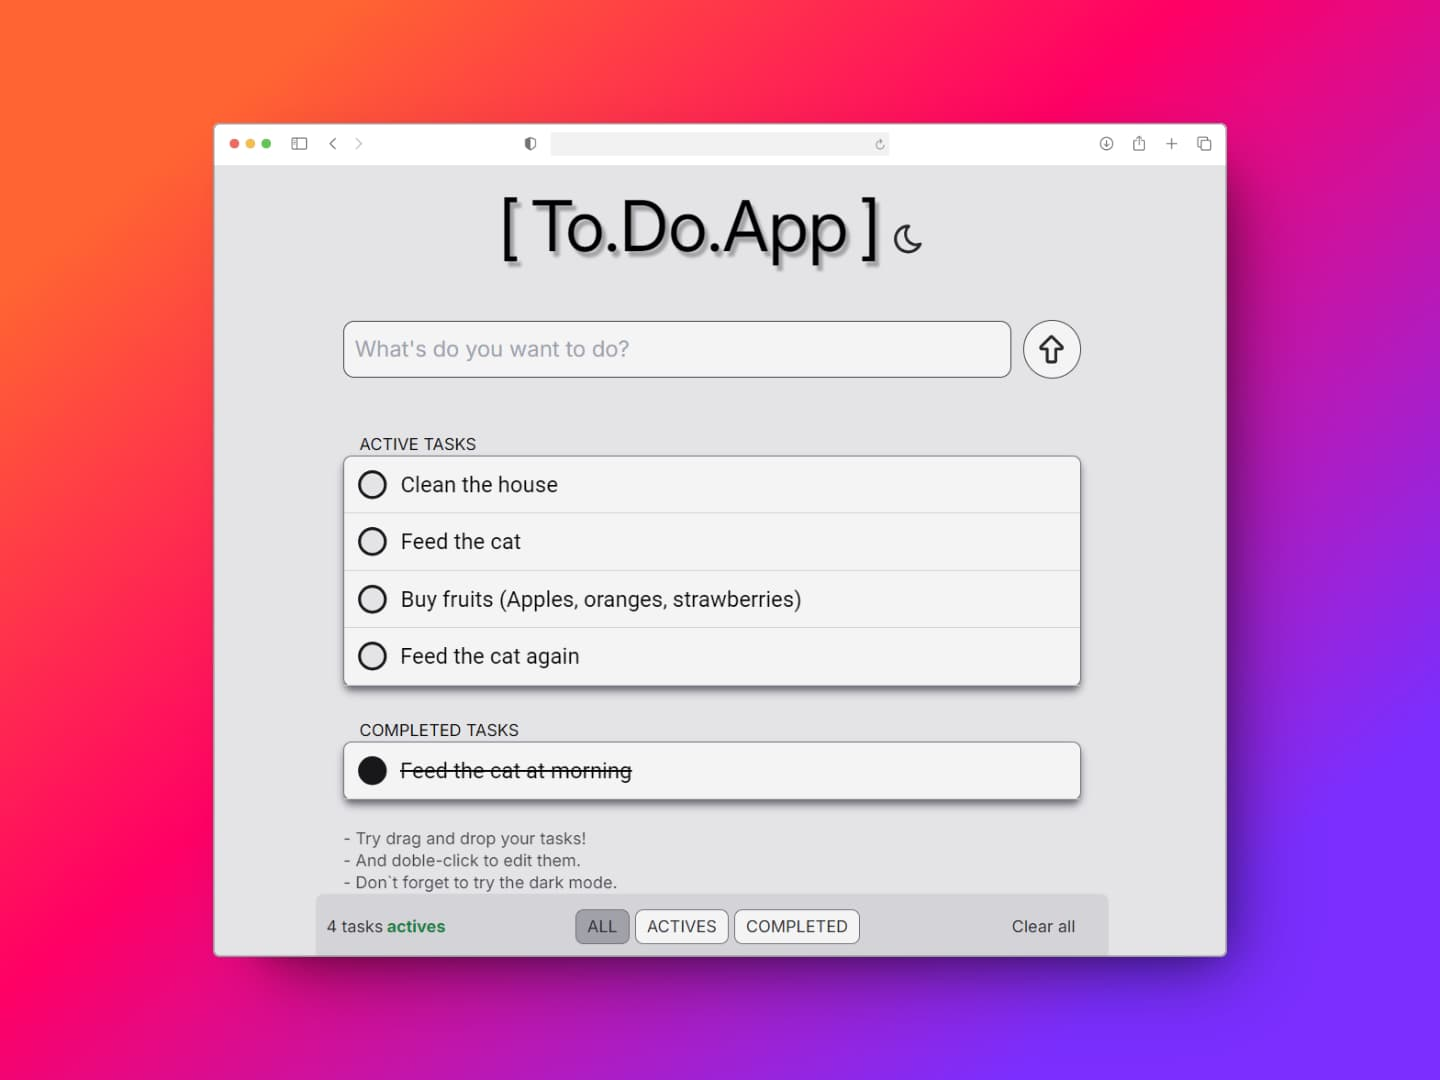
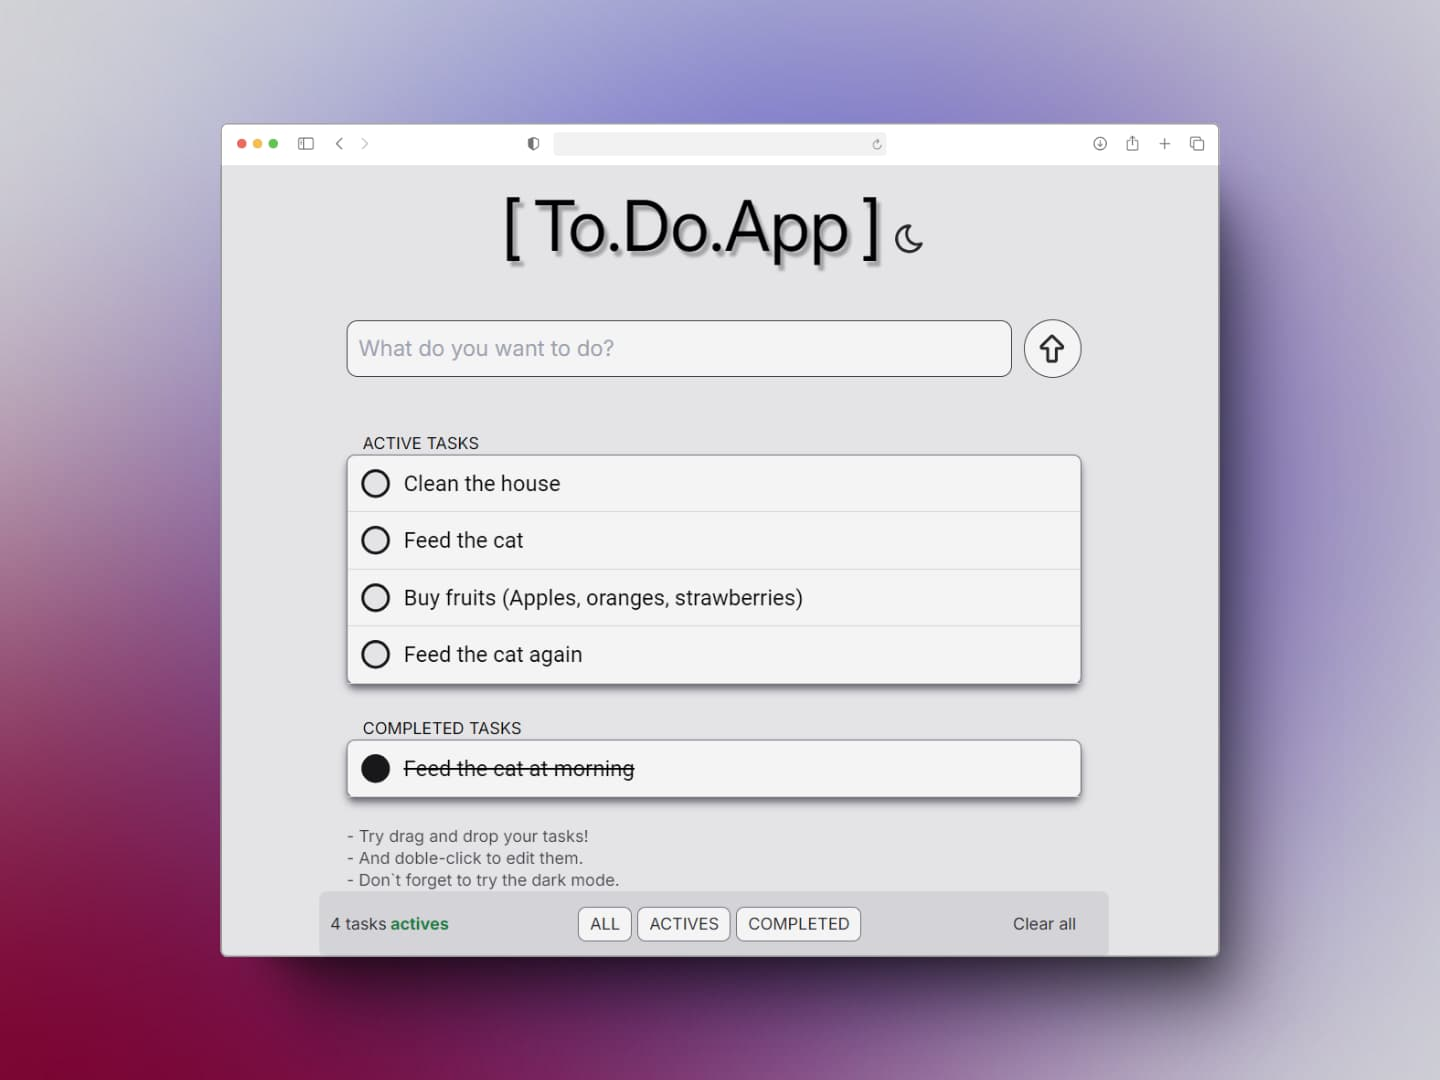
fix spelling error and margin

diff --git a/src/App.jsx b/src/App.jsx
@@ -4,21 +4,14 @@ import { Header } from './components/Header'
 import { ListOfTasks } from './components/ListOfTasks'
 import { Footer } from './components/Footer'
 import { FilterProvider } from './contexts/filters'
-import { ButtonDarkMode } from './components/ButtonDarkMode'
+import { AppTitle } from './components/AppTitle'
 
 function App() {
   return (
     <TasksProvider>
       <FilterProvider>
         <div className='my-0 mx-auto max-w-xl'>
-          <div className='text-center select-none mb-10 mt-5 flex flex-row gap-2 justify-center items-end
-          [text-shadow:_3px_4px_2px_rgb(63_63_70_/_40%)]
-          dark:text-zinc-200 dark:[text-shadow:_3px_4px_2px_rgb(255_255_255_/_40%)]'>
-            <h1 className='opacity-0 animate-fadeInLeft'>[</h1>
-            <h1 className='opacity-0 animate-fadeInUp'>To.Do.App</h1>
-            <h1 className='opacity-0 animate-fadeInRight'>]</h1>
-            <ButtonDarkMode></ButtonDarkMode>
-          </div>
+          <AppTitle></AppTitle>
           <Header></Header>
           <ListOfTasks></ListOfTasks>
           <Footer></Footer>

diff --git a/src/components/Header.jsx b/src/components/Header.jsx
@@ -33,7 +33,7 @@ export const Header = () => {
         <header className="sticky top-5 z-10 px-5">
             <form className="flex flex-row gap-2 items-center opacity-0 animate-fadeInUp" onSubmit={submitForm}>
                 <input onChange={handleInputTask} type="text" value={newTaskInput} ref={newTaskFocusRef}
-                    placeholder={`What's do you want to do?`}
+                    placeholder={`What do you want to do?`}
                     className="border-[1px] rounded-lg px-2 py-2 flex-1 text-md transition-colors
                     border-zinc-700 bg-zinc-100 hover:bg-zinc-100 text-zinc-800
                     dark:border-zinc-200 dark:bg-zinc-700 dark:hover:bg-zinc-900 dark:text-zinc-200"/>

diff --git a/src/components/AppTitle.jsx b/src/components/AppTitle.jsx
@@ -1,0 +1,14 @@
+import { ButtonDarkMode } from './ButtonDarkMode'
+
+export const AppTitle = () => {
+    return (
+        <div className='text-center select-none mb-10 pt-5 flex flex-row gap-2 justify-center items-end
+          [text-shadow:_3px_4px_2px_rgb(63_63_70_/_40%)]
+          dark:text-zinc-200 dark:[text-shadow:_3px_4px_2px_rgb(255_255_255_/_40%)]'>
+            <h1 className='opacity-0 animate-fadeInLeft'>[</h1>
+            <h1 className='opacity-0 animate-fadeInUp'>To.Do.App</h1>
+            <h1 className='opacity-0 animate-fadeInRight'>]</h1>
+            <ButtonDarkMode></ButtonDarkMode>
+        </div>
+    )
+}
